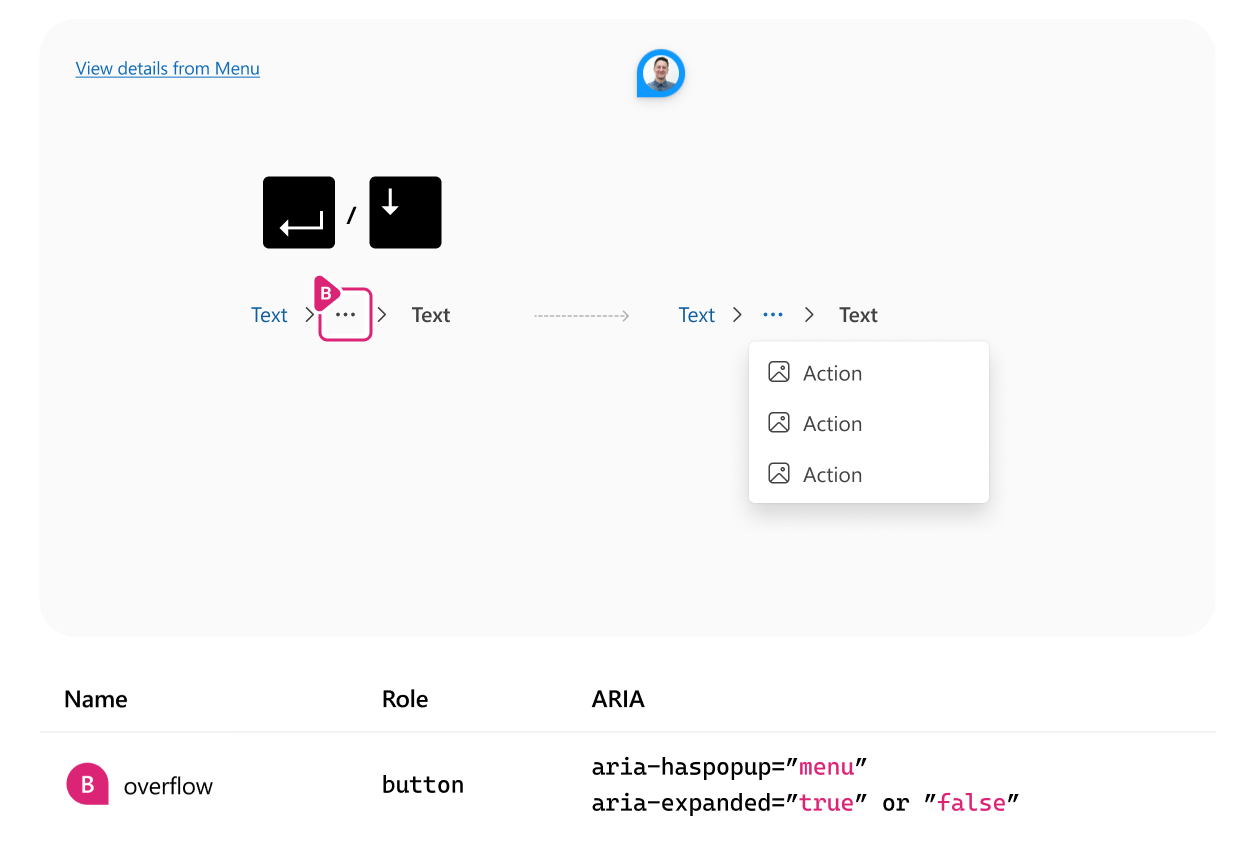
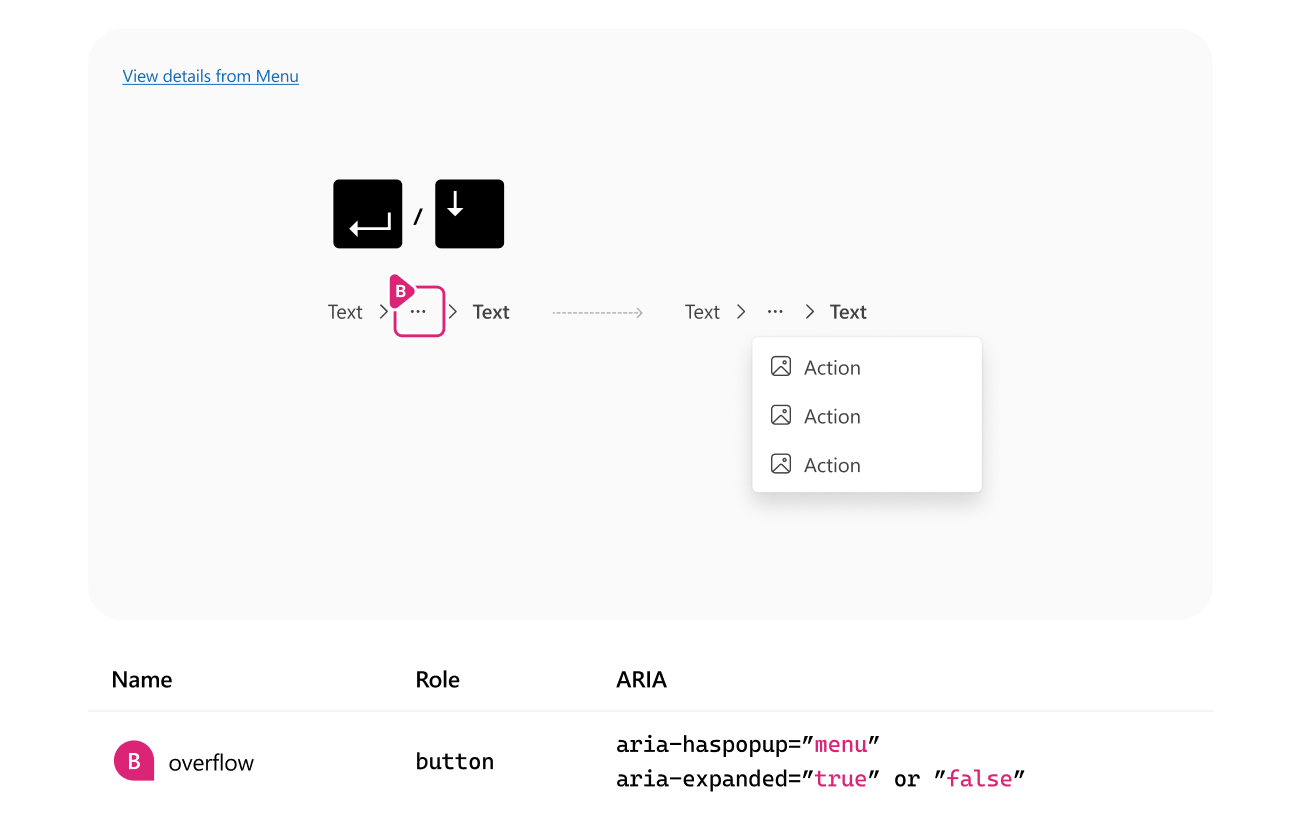
docs(breadcrumb) SPEC update (#29693)
* docs(breadcrumb) updated the SPEC

* Updated images according to the design

diff --git a/packages/react-components/react-breadcrumb-preview/docs/Spec.md b/packages/react-components/react-breadcrumb-preview/docs/Spec.md
@@ -104,7 +104,7 @@ const BreadcrumbV9Example = props => (
 
 ### Breadcrumb item variants
 
-- Link - BreadcrumbButton component with `as="a"` and `href` attributes.
+- Link - `BreadcrumbButton` uses @fluentui/react-button component under the hood. It's semantically a Link but has appearance of subtle `Button`.
 - Dropdown menu - can be added by a partner using JSX composition.
 
 ### Icon
@@ -264,8 +264,6 @@ Usage
 | current  | boolean | false   | Indicates current page |
 | icon     | _slot_  |         | Sets icon              |
 
-Under the hood @fluentui/react-button component is used.
-
 ## Behaviors
 
 #### Overflow
@@ -355,10 +353,9 @@ Breadcrumb can have the folloing states:
 - Rest
 - Hover
 - Pressed
-- Selected
 - Focused
 - Disabled
-- Active
+- Current
 
 ![Breadcrumb states](./assets/beadcrumb-states.png)
 
@@ -368,18 +365,16 @@ Tooltip is shown `onHover` on collapsed menu or items with long names.
 ![Breadcrumb Tooltip](./assets/breadcrumb-tooltip.png)
 
 Tooltipls can be multiline. It is recommended to use content no longer than 80 symbols.
-Interactive items have tooltips when their names are longer than 30 symbols.
-Non-interactive Breadcrumb runs the entire available space where the control is placed.
-If the space is limited, the string will truncate the end of it.
+Items have tooltips when their names are longer than 30 symbols.
 
 ### Keyboard
 
-When navigating via keyboard, focus will be place initially on the first breadcrumb item. Left and right arrow keys move through the breadcrumb items.
+When navigating via keyboard, focus will be place initially on the first breadcrumb item. Either `tab` key (default) or left and right arrow can be used to move through the breadcrumb items.
 
 ![Breadcrumb keyboard interaction](./assets/breadcrumb-keyboard-interaction.png)
 
 - Tab => Focus on breadcrumb trail or the first item only.
-- Arrow => Move focus to items in the string.
+- Arrow/Tab => Move focus to items in the string.
 - Enter or Space => Selects the item; opens the page; expand collapsed items.
 
 #### Collapsed items - Menu
@@ -391,13 +386,12 @@ If the overflow button is in focus, `Enter`, `Arrow down` or `Space` activate th
 
 ## Accessibility
 
-Use the `tab` key to navigate to the first item of the string and `arrow` keys to move through previous and next items.
+Use the `tab` key to navigate to the first item of the string and `Tab` or `arrow` keys to move through previous and next items.
 Each item is conisdered a ListItem with nested links.
-Tab stops don't apply for non-interactive Breadcrumbs.
 
 ![Breadcrumb Accessibility](./assets/a11y-breadcrumb.png)
 
-Use button roles for actions in the same space (overflow).
+Use button roles for Overflow menu.
 ![Breadcrumb Accessibility Overflow](./assets/a11y-breadcrumb-overflow.png)
 
 ### Truncated text

diff --git a/packages/react-components/react-breadcrumb-preview/docs/MIGRATION.md b/packages/react-components/react-breadcrumb-preview/docs/MIGRATION.md
@@ -15,7 +15,6 @@ Here's how the API of v8's `Breadcrumb` compares to the one from v9's `Breadcrum
 - `className` => Slot system supports it by default. We don't need to provide it explicitly.
 - `items` => Use `children` prop instead.
 - `componentRef` => NOT SUPPORTED - use `ref` instead.
-- `dividerAs` => Divider is a separate component. Type of divider is passed to the Breadcrumb component as `dividerType`.
 - `focusZoneProps` => use `focusMode` instead.
 - `overflowButtonAs` => Custom component for the overflow button - use custom overflow button instead.
 - `styles` => Use style customization through `className` instead.
@@ -23,6 +22,8 @@ Here's how the API of v8's `Breadcrumb` compares to the one from v9's `Breadcrum
 - `overflowAriaLabel` => Aria label for the overflow button.
 
 #### Props no longer supported
+
+- `dividerAs`
 
 - `onRenderOverflowIcon` => Render a custom overflow icon in place of the default icon `...`.
 - `onGrowData` => Method that determines how to group the length of the breadcrumb. Return undefined to never increase breadcrumb length.
@@ -96,12 +97,15 @@ BreadcrumbDivider has default `span`. BreadcrumbLink has `a` and Breadcrumb has 
 
 #### BreadcrumbItem component:
 
+In V9 BreadcrumbItem is `li` component which is wrapper for `BreadcrumbButton`.
+`BreadcrumbButton` has props `current` and `disabled`.
+
 - `active` => Indicates if the link is the active. Use `current` instead.
 - `disabled` => The Breadcrumb Item can be disabled.
 
 #### Property Mapping
 
-| Northstar `BreadcrumbItem` | v9 `BreadcrumbItem` |
-| -------------------------- | ------------------- |
-| `active`                   | `current`           |
-| `disabled`                 | `disabled`          |
+| Northstar `BreadcrumbItem` | v9 `BreadcrumbButton` |
+| -------------------------- | --------------------- |
+| `active`                   | `current`             |
+| `disabled`                 | `disabled`            |
